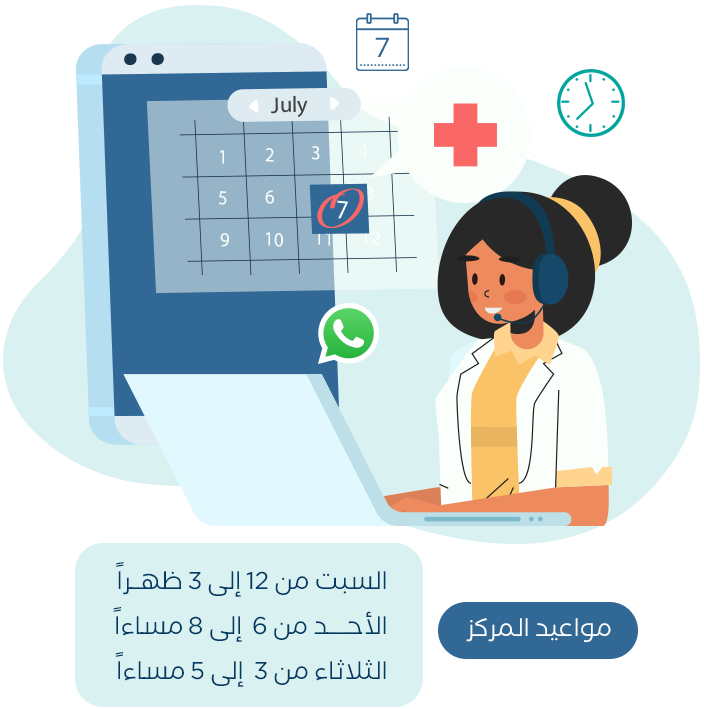
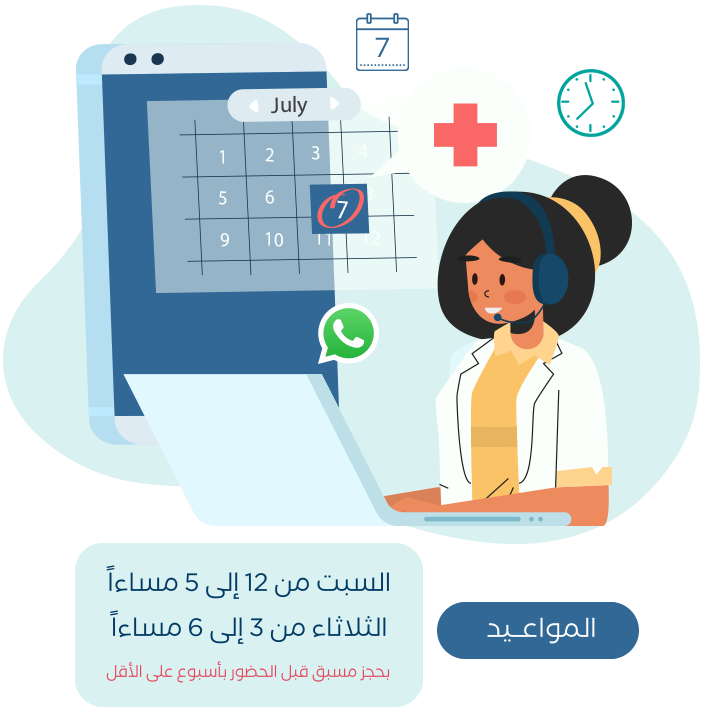
Update Address

Changed region(s): [[0.1562, 0.7757, 0.5625, 0.9619], [0.6562, 0.8688, 0.875, 0.8999]]

diff --git a/index.html b/index.html
@@ -47,7 +47,7 @@
 
 </head>
 
-<body>
+<body> 
 
   <!-- scroll up -->
   <div class="scrollUp ">
@@ -293,7 +293,7 @@
   <section class="new-add bg-light">
     <div class="container">
       <div class="row align-items-center">
-        <div class="new-add-text col col-lg-8 fs-5 text-center lh-lg">
+        <div class="new-add-text col col-lg-8 fs-5 text-center lh-lg wow fadeInUp" data-wow-offset="200">
           <h3 class="mb-4 text-white bg-gradient rounded-5 px-5 pt-3 pb-2 lh-lg mx-auto max-content">لأول مرة في مركز
             العامرية للعيون</h3>
           <h3 class="mb-4 lh-lg">جهاز <span class="fs-2"
@@ -317,8 +317,8 @@
           <p>زورونا الآن واستفيدوا من العلاج الجذري باستخدام أحدث تقنيات الليزر في العالم.</p>
         </div>
         <div class="col col-lg-4 ps-5 drop-shadow">
-          <img src="./img/Norlase-Argon-Laser.jpg" class="rounded-4 text-center" alt="Norlase-Argon-Laser-img"
-            width="100%">
+          <img src="./img/Norlase-Argon-Laser.jpg" class="rounded-4 text-center wow fadeInUp" data-wow-offset="200"
+            alt="Norlase-Argon-Laser-img" width="100%">
         </div>
       </div>
     </div>
@@ -610,8 +610,9 @@
       <div class="row row-cols-1 row-cols-lg-2 gy-5 g-lg-5">
 
         <div class="col">
-          <video src="./img/evolux-lenses.mp4" type="video/mp4" controls width="100%" class="mb-4"></video>
-          <div class="text-content">
+          <video src="./img/evolux-lenses.mp4" type="video/mp4" controls width="100%" class="mb-4 wow fadeInUp"
+            data-wow-offset="200"></video>
+          <div class="text-content wow fadeInUp" data-wow-offset="200">
             <p class="text-bold fs-3 mb-0">أحــدث عدســـات</p>
             <img src="./img/evolux-logo.jpg" alt="evolux-logo" width="55%" class="my-2">
             <p class="text-bold fs-3 mb-0">الإيطـاليــــــــة</p>
@@ -620,8 +621,9 @@
         </div>
 
         <div class="col">
-          <video src="./img/eyhance-lenses.mp4" type="video/mp4" controls width="100%" class="mb-4"></video>
-          <div class="text-content">
+          <video src="./img/eyhance-lenses.mp4" type="video/mp4" controls width="100%" class="mb-4 wow fadeInUp"
+            data-wow-offset="200"></video>
+          <div class="text-content wow fadeInUp" data-wow-offset="200">
             <p class="text-bold fs-2">تقنيـــة السوبـراكــــور</p>
             <p class="fs-5 text-secondary">أحدث تكنولوجيا في العالم</p>
             <p class="text-bold fs-2 mt-4">عدســات أي-هانـــس</p>
@@ -638,7 +640,8 @@
   <!-- start have-ques -->
   <section class="have-ques">
     <div class="container">
-      <div class="have-ques-frame position-relative text-white bg-gradient rounded-5 p-5">
+      <div class="have-ques-frame position-relative text-white bg-gradient rounded-5 p-5 wow fadeInUp"
+        data-wow-offset="200">
         <img src="./img/have-ques.png" alt="dr.Amr-Said">
         <div class="text-content">
           <p class="text-bold fs-4 ">عندك سؤال عن عينيك؟</p>
@@ -1004,11 +1007,11 @@
                         <img src="./img/icons/clock-secondary.svg" width="25" alt="map icon">
                       </div>
                       <p class="lh-lg m-0 ms-3">
-                        السبت من 12 إلى 3 ظهــراً
+                        السبت من 12 إلى 5 مساءاً
                         <br>
-                        الأحــــد من 6 إلى 8 مساءاً
+                        الثلاثاء من 3 إلى 6 مساءاً
                         <br>
-                        الثلاثاء من 3 إلى 5 مساءاً
+                        <span class="fs-7">بحجز مسبق قبل الحضور بأسبوع على الأقل</span>
                       </p>
                     </li>
 
@@ -1046,9 +1049,9 @@
                         <img src="./img/icons/map-secondary.svg" width="25" alt="map icon">
                       </div>
                       <p class="lh-lg m-0 ms-3" style="min-width: 235px;">
-                        5 شارع د. سيد فهمى - فوق بنك
+                        سيدي جابر - شارع الدكتور سيد فهمي
                         <br>
-                        البركة - سموحة - سيدى جابر
+                        متفرع من شارع بهاء الدين غتوري
                       </p>
                     </li>
 
@@ -1068,11 +1071,11 @@
                         <img src="./img/icons/clock-secondary.svg" width="25" alt="map icon">
                       </div>
                       <p class="lh-lg m-0 ms-3" style="min-width: 250px;">
-                        السبت من 7 إلى 9 مساءاً
-                        <br>
-                        الإثنين والخميس من 1 إلى 3 ظهراً
+                        الأحد والإثنين والخميس من 2 إلى 4 ظهراً
                         <br>
                         الأربعاء من 3 إلى 6 مساءاً
+                        <br>
+                        <span class="fs-7">بحجز مسبق قبل الحضور بيومين على الأقل</span>
                       </p>
                     </li>
 
@@ -1086,7 +1089,7 @@
                     </li>
 
                   </ul>
-                  <a href="https://maps.app.goo.gl/P5KCixNh3rHQDLS66?g_st=awb" target="_blank"
+                  <a href="https://maps.app.goo.gl/sen9qS4sm5YMdy5A7" target="_blank"
                     class="d-flex align-items-center justify-content-center bg-white rounded-5 py-2 mt-3 wow fadeInUp"
                     data-wow-offset="50" data-wow-delay=".1s">
                     <div>

diff --git a/about.html b/about.html
@@ -431,11 +431,11 @@
                         <img src="./img/icons/clock-secondary.svg" width="25" alt="map icon">
                       </div>
                       <p class="lh-lg m-0 ms-3">
-                        السبت من 12 إلى 3 ظهــراً
+                        السبت من 12 إلى 5 مساءاً
                         <br>
-                        الأحــــد من 6 إلى 8 مساءاً
+                        الثلاثاء من 3 إلى 6 مساءاً
                         <br>
-                        الثلاثاء من 3 إلى 5 مساءاً
+                        <span class="fs-7">بحجز مسبق قبل الحضور بأسبوع على الأقل</span>
                       </p>
                     </li>
 
@@ -473,9 +473,9 @@
                         <img src="./img/icons/map-secondary.svg" width="25" alt="map icon">
                       </div>
                       <p class="lh-lg m-0 ms-3" style="min-width: 235px;">
-                        5 شارع د. سيد فهمى - فوق بنك
+                        سيدي جابر - شارع الدكتور سيد فهمي
                         <br>
-                        البركة - سموحة - سيدى جابر
+                        متفرع من شارع بهاء الدين غتوري
                       </p>
                     </li>
 
@@ -495,11 +495,11 @@
                         <img src="./img/icons/clock-secondary.svg" width="25" alt="map icon">
                       </div>
                       <p class="lh-lg m-0 ms-3" style="min-width: 250px;">
-                        السبت من 7 إلى 9 مساءاً
-                        <br>
-                        الإثنين والخميس من 1 إلى 3 ظهراً
+                        الأحد والإثنين والخميس من 2 إلى 4 ظهراً
                         <br>
                         الأربعاء من 3 إلى 6 مساءاً
+                        <br>
+                        <span class="fs-7">بحجز مسبق قبل الحضور بيومين على الأقل</span>
                       </p>
                     </li>
 
@@ -513,7 +513,7 @@
                     </li>
 
                   </ul>
-                  <a href="https://maps.app.goo.gl/P5KCixNh3rHQDLS66?g_st=awb" target="_blank"
+                  <a href="https://maps.app.goo.gl/sen9qS4sm5YMdy5A7" target="_blank"
                     class="d-flex align-items-center justify-content-center bg-white rounded-5 py-2 mt-3 wow fadeInUp"
                     data-wow-offset="50" data-wow-delay=".1s">
                     <div>

diff --git a/blog.html b/blog.html
@@ -334,11 +334,11 @@
                         <img src="./img/icons/clock-secondary.svg" width="25" alt="map icon">
                       </div>
                       <p class="lh-lg m-0 ms-3">
-                        السبت من 12 إلى 3 ظهــراً
+                        السبت من 12 إلى 5 مساءاً
                         <br>
-                        الأحــــد من 6 إلى 8 مساءاً
+                        الثلاثاء من 3 إلى 6 مساءاً
                         <br>
-                        الثلاثاء من 3 إلى 5 مساءاً
+                        <span class="fs-7">بحجز مسبق قبل الحضور بأسبوع على الأقل</span>
                       </p>
                     </li>
 
@@ -376,9 +376,9 @@
                         <img src="./img/icons/map-secondary.svg" width="25" alt="map icon">
                       </div>
                       <p class="lh-lg m-0 ms-3" style="min-width: 235px;">
-                        5 شارع د. سيد فهمى - فوق بنك
+                        سيدي جابر - شارع الدكتور سيد فهمي
                         <br>
-                        البركة - سموحة - سيدى جابر
+                        متفرع من شارع بهاء الدين غتوري
                       </p>
                     </li>
 
@@ -398,11 +398,11 @@
                         <img src="./img/icons/clock-secondary.svg" width="25" alt="map icon">
                       </div>
                       <p class="lh-lg m-0 ms-3" style="min-width: 250px;">
-                        السبت من 7 إلى 9 مساءاً
-                        <br>
-                        الإثنين والخميس من 1 إلى 3 ظهراً
+                        الأحد والإثنين والخميس من 2 إلى 4 ظهراً
                         <br>
                         الأربعاء من 3 إلى 6 مساءاً
+                        <br>
+                        <span class="fs-7">بحجز مسبق قبل الحضور بيومين على الأقل</span>
                       </p>
                     </li>
 
@@ -416,7 +416,7 @@
                     </li>
 
                   </ul>
-                  <a href="https://maps.app.goo.gl/P5KCixNh3rHQDLS66?g_st=awb" target="_blank"
+                  <a href="https://maps.app.goo.gl/sen9qS4sm5YMdy5A7" target="_blank"
                     class="d-flex align-items-center justify-content-center bg-white rounded-5 py-2 mt-3 wow fadeInUp"
                     data-wow-offset="50" data-wow-delay=".1s">
                     <div>

diff --git a/book-appointment.html b/book-appointment.html
@@ -454,11 +454,11 @@
                         <img src="./img/icons/clock-secondary.svg" width="25" alt="map icon">
                       </div>
                       <p class="lh-lg m-0 ms-3">
-                        السبت من 12 إلى 3 ظهــراً
+                        السبت من 12 إلى 5 مساءاً
                         <br>
-                        الأحــــد من 6 إلى 8 مساءاً
+                        الثلاثاء من 3 إلى 6 مساءاً
                         <br>
-                        الثلاثاء من 3 إلى 5 مساءاً
+                        <span class="fs-7">بحجز مسبق قبل الحضور بأسبوع على الأقل</span>
                       </p>
                     </li>
 
@@ -496,9 +496,9 @@
                         <img src="./img/icons/map-secondary.svg" width="25" alt="map icon">
                       </div>
                       <p class="lh-lg m-0 ms-3" style="min-width: 235px;">
-                        5 شارع د. سيد فهمى - فوق بنك
+                        سيدي جابر - شارع الدكتور سيد فهمي
                         <br>
-                        البركة - سموحة - سيدى جابر
+                        متفرع من شارع بهاء الدين غتوري
                       </p>
                     </li>
 
@@ -518,11 +518,11 @@
                         <img src="./img/icons/clock-secondary.svg" width="25" alt="map icon">
                       </div>
                       <p class="lh-lg m-0 ms-3" style="min-width: 250px;">
-                        السبت من 7 إلى 9 مساءاً
-                        <br>
-                        الإثنين والخميس من 1 إلى 3 ظهراً
+                        الأحد والإثنين والخميس من 2 إلى 4 ظهراً
                         <br>
                         الأربعاء من 3 إلى 6 مساءاً
+                        <br>
+                        <span class="fs-7">بحجز مسبق قبل الحضور بيومين على الأقل</span>
                       </p>
                     </li>
 
@@ -536,7 +536,7 @@
                     </li>
 
                   </ul>
-                  <a href="https://maps.app.goo.gl/P5KCixNh3rHQDLS66?g_st=awb" target="_blank"
+                  <a href="https://maps.app.goo.gl/sen9qS4sm5YMdy5A7" target="_blank"
                     class="d-flex align-items-center justify-content-center bg-white rounded-5 py-2 mt-3 wow fadeInUp"
                     data-wow-offset="50" data-wow-delay=".1s">
                     <div>

diff --git a/sw.js b/sw.js
@@ -7,10 +7,10 @@ workbox.precaching.cleanupOutdatedCaches();
 // 1. تخزين الملفات الأساسية مسبقًا (Precache)
 workbox.precaching.precacheAndRoute([
   // الصفحات
-  { url: '/index.html', revision: 'v7' },
-  { url: '/about.html', revision: 'v6' },
-  { url: '/blog.html', revision: 'v6' },
-  { url: '/book-appointment.html', revision: 'v6' },
+  { url: '/index.html', revision: 'v8' },
+  { url: '/about.html', revision: 'v7' },
+  { url: '/blog.html', revision: 'v7' },
+  { url: '/book-appointment.html', revision: 'v7' },
   { url: '/404.html', revision: 'v4' },
 
   // ملفات CSS
